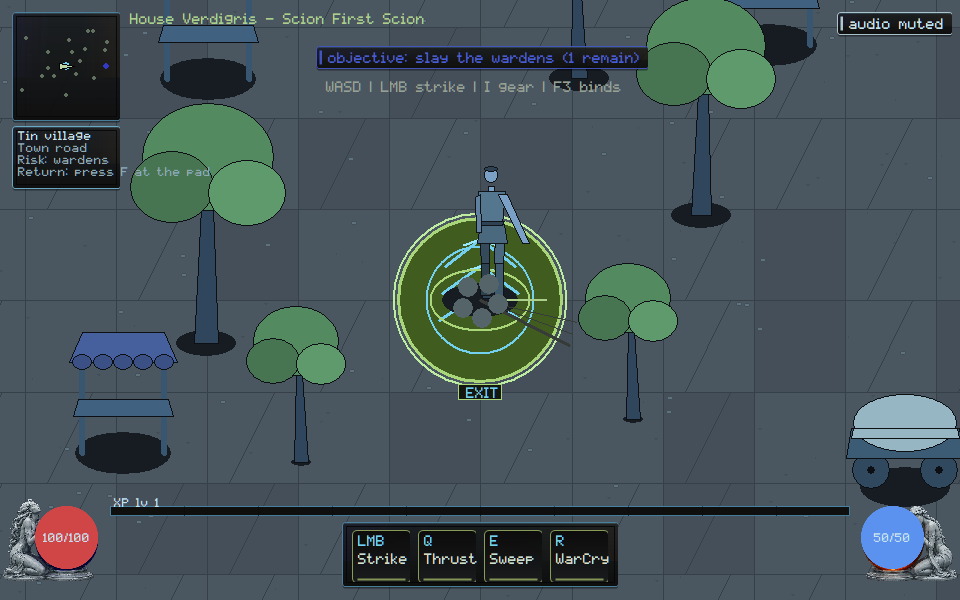
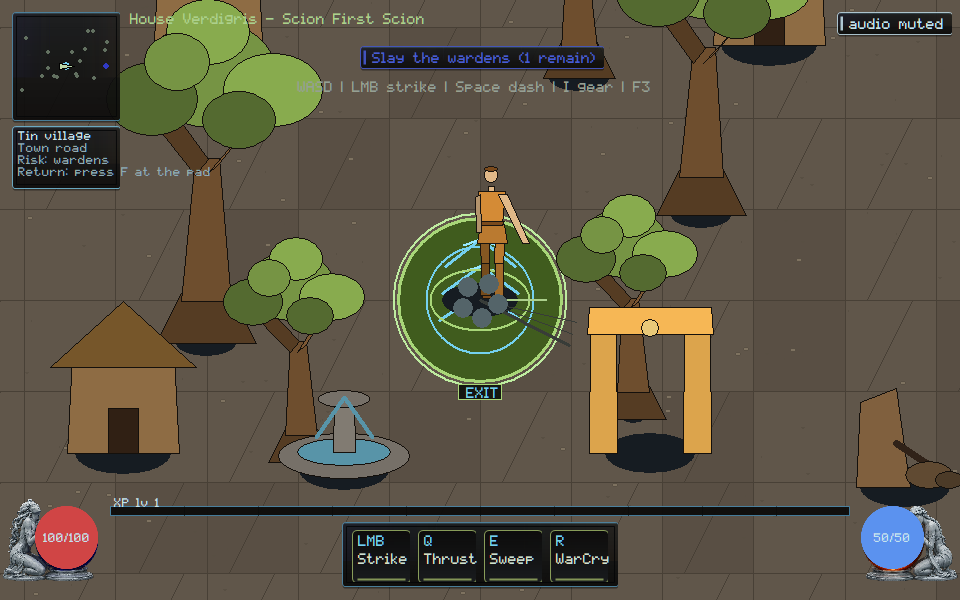
native: paint skill-tree absence in owner language on the gear pane
TREE no authoritative data stays on PaneStat for TASK-0156; the owner overlay now says Skill tree: no data yet.

Changed region(s): [[0.0, 0.0, 1.0, 0.84], [0.6562, 0.93, 0.9062, 0.96], [0.0938, 0.93, 0.3438, 0.96]]

diff --git a/native/client/main.cpp b/native/client/main.cpp
@@ -3771,14 +3771,8 @@ void paint_gear_overlay(ClientState& state, HDC dc, const RECT& bounds,
   RECT seat{seat_left, seat_top, seat_left + seat_w, seat_top + 24 * s};
   state.hud_rect_trace.push_back(
       {"pane-seat", {seat.left, seat.top, seat_w, 24 * s}});
-  HBRUSH seat_bg = CreateSolidBrush(RGB(32, 40, 42));
-  FillRect(dc, &seat, seat_bg);
-  DeleteObject(seat_bg);
-  HPEN seat_pen = CreatePen(PS_SOLID, 1, RGB(104, 160, 137));
-  HGDIOBJ sp = SelectObject(dc, seat_pen);
-  Rectangle(dc, seat.left, seat.top, seat.right, seat.bottom);
-  SelectObject(dc, sp);
-  DeleteObject(seat_pen);
+  const bool seat_armed = equipped_bonus != 0;
+  skin::slot(dc, seat, seat_armed ? skin::kGold : skin::kVerdigris, seat_armed);
   SetTextColor(dc, RGB(170, 190, 178));
   const char* seat_label = "Weapon";
   TextOutA(dc, seat_left + 6 * s, seat_top + 4 * s, seat_label,
@@ -3985,7 +3979,9 @@ void paint_gear_overlay(ClientState& state, HDC dc, const RECT& bounds,
   // TASK-0156: compact authoritative progression summary, mirrored from the
   // passiveTree payload. Absence is stated as absence — never rendered as
   // zero — and no node ids, allocation actions, or invented copy appear.
+  // PaneStat keeps the protocol TREE string; owner paint does not.
   std::string progression;
+  std::string owner_progression;
   if (state.world.progression.present) {
     progression = "TREE pts " +
                   std::to_string(state.world.progression.unspent_points) + "/" +
@@ -3993,19 +3989,26 @@ void paint_gear_overlay(ClientState& state, HDC dc, const RECT& bounds,
                   "  nodes " + std::to_string(state.world.progression.node_count) +
                   "  conduits " +
                   std::to_string(state.world.progression.conduit_count);
+    owner_progression =
+        "Skill points " + std::to_string(state.world.progression.unspent_points) +
+        " of " + std::to_string(state.world.progression.earned_points);
   } else {
     progression = "TREE no authoritative data";
+    owner_progression = "Skill tree: no data yet";
   }
   rl.push_back({render::Op::PaneStat, 0.0, 0.0, 0.0, 0, progression});
+  rl.push_back({render::Op::Hud, 0.0, 0.0, 0.0, 0,
+                state.world.progression.present ? "tree:owner-present"
+                                                : "tree:owner-absent"});
   {
     SIZE extent{};
-    GetTextExtentPoint32A(dc, progression.c_str(),
-                          static_cast<int>(progression.size()), &extent);
+    GetTextExtentPoint32A(dc, owner_progression.c_str(),
+                          static_cast<int>(owner_progression.size()), &extent);
     state.hud_rect_trace.push_back(
         {"pane-progression", {left + 14 * s, bottom - 74 * s, extent.cx, extent.cy}});
   }
-  TextOutA(dc, left + 14 * s, bottom - 74 * s, progression.c_str(),
-           static_cast<int>(progression.size()));
+  TextOutA(dc, left + 14 * s, bottom - 74 * s, owner_progression.c_str(),
+           static_cast<int>(owner_progression.size()));
   const char* controls =
       "Drag to place | drop on Weapon to equip | Enter equip | U unequip";
   {
@@ -10903,6 +10906,19 @@ int scenario_equipment() {
   scenario_check(ack_ok, "equipment: ack paints equip:ok");
   scenario_check(gold_equipped,
                  "equipment: compare plate follows the acknowledged seat");
+  bool tree_protocol = false;
+  bool tree_owner_absent = false;
+  for (const auto& item : state.render_list) {
+    if (item.op == render::Op::PaneStat &&
+        item.label == "TREE no authoritative data")
+      tree_protocol = true;
+    if (item.op == render::Op::Hud && item.label == "tree:owner-absent")
+      tree_owner_absent = true;
+  }
+  scenario_check(tree_protocol,
+                 "equipment: PaneStat still states TREE absence for TASK-0156");
+  scenario_check(tree_owner_absent,
+                 "equipment: owner paint is Skill tree absence, not TREE jargon");
 
   const std::string dir = art_wave_capture_dir();
   if (dir.empty()) {

diff --git a/docs/execution/CROSSWALK_REGISTRY.md b/docs/execution/CROSSWALK_REGISTRY.md
@@ -137,7 +137,7 @@ not implemented here.
 | VG-ART-008 | G3 | extend | Owner Demo — do not duplicate |
 | VG-UI-001 | G1 | extend | pane-stack native Escape; helper depth alone cannot prove |
 | VG-UI-002 | G2 | extend | pack-drag occupancy; reject cannot lose/duplicate/silent-equip; sim inventory-move stays Kimi |
-| VG-UI-003 | G2 | extend | equipment compare plate is ack-only; pending cannot gold-frame as equipped |
+| VG-UI-003 | G2 | extend | equipment ack-only; owner skill-tree line, not TREE jargon |
 | VG-UI-004 | G2 | extend | stat-explain expandable ATK; dormant cannot fold into Attack; core STAT stays Kimi |
 | VG-UI-005 | G3 | extend | route-map zoom/opacity; off-snapshot blip cannot pass; Owner Demo journeys not reimplemented |
 | VG-UI-006 | G2 | extend | Owner Demo — do not duplicate |

diff --git a/docs/execution/CROSSWALK.md b/docs/execution/CROSSWALK.md
@@ -191,7 +191,9 @@ Scenario `ambience-layer`. Evidence `docs/execution/evidence/VG-SOUND-005.json`.
 VG-SOUND-006: mute cannot reset SFX/music volumes; zero SFX stays silent.
 Scenario `audio-prefs`. Evidence `docs/execution/evidence/VG-SOUND-006.json`.
 VG-UI-003: equip HUD is ack-only (`equip:ok` after ItemEquipped). Pending
-compare cannot gold-frame as equipped. Scenario `equipment`.
+compare cannot gold-frame as equipped. Owner gear pane paints
+`Skill tree: no data yet`; PaneStat keeps `TREE no authoritative data`.
+Scenario `equipment`. Evidence `docs/execution/evidence/VG-UI-003.json`.
 VG-PERF-007: 32 resize/effect cycles; floor bitmaps stay 1. Scenario
 `memory-soak`. Evidence `docs/execution/evidence/VG-PERF-007.json`.
 VG-SOUND-007: mixer tape from mixed pack + elite; isolated preview fails.

diff --git a/orchestration/CURSOR_KIMI_LANES.md b/orchestration/CURSOR_KIMI_LANES.md
@@ -434,3 +434,13 @@ Please move off that branch before taking a new native path.
 - **Stay off** `native/client/main.cpp` and `docs/execution/**`. SEC/CORE
   remain yours. GOV-002 still unstamped.
 
+## Cursor reply (2026-09-06, owner gear skill-tree line)
+
+- **Lease:** `main.cpp` still **ACTIVE**. `remote_session.cpp` stays
+  **RELEASED**. Do not re-spec TASK-0108 core/wire (`3b929637`).
+- **Landed this push:** VG-UI-003 — owner gear pane says
+  `Skill tree: no data yet`; PaneStat keeps TREE absence for TASK-0156.
+  equipment/pack-drag recaptured. Not Owner Demo.
+- **Stay off** `native/client/main.cpp` and `docs/execution/**`. SEC/CORE
+  remain yours. GOV-002 still unstamped.
+

diff --git a/docs/rebuild/HANDOFF.md b/docs/rebuild/HANDOFF.md
@@ -1,5 +1,14 @@
 # Native reconstitution handoff
 
+## 2026-09-06 — owner gear pane without TREE jargon (Cursor)
+
+- VG-UI-003: gear overlay paints `Skill tree: no data yet` when the tree
+  payload is absent. `PaneStat` still carries `TREE no authoritative data`
+  for TASK-0156. Weapon seat uses `ui_skin::slot`.
+- Scenarios `equipment` / `pack-drag` / `attack-poses` PASS. Capture
+  viewed: current HUD, bronze Scion, village gate, owner skill-tree line.
+  Not Owner Demo. ITEM sim stays Kimi.
+
 ## 2026-09-06 — shrine and gate inside the spawn capture (Cursor)
 
 - VG-ART-004: tin village shrine and dressing gate sit in the spawn
